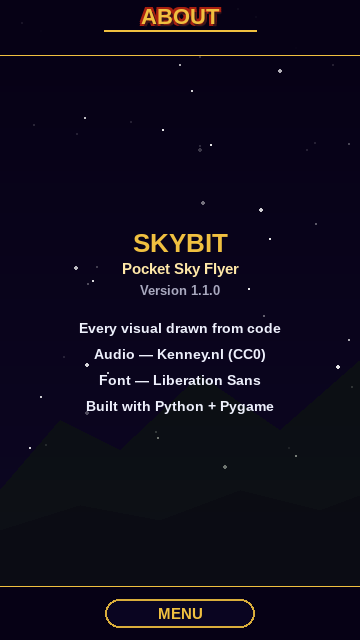
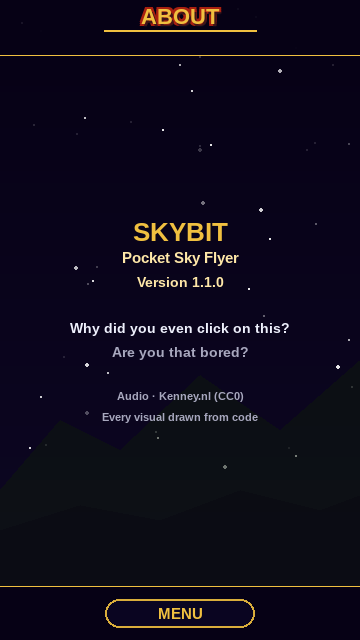
About: version + a self-aware roast line
Put the game version front and centre and add an on-brand roast for anyone
who opens the About screen ("Why did you even click on this? Are you that
bored?"), with a compact credits footer beneath.

Claude-Session: https://claude.ai/code/session_01ARwhW1U7KdSUdqvnUSuQi9

Changed region(s): [[0.1833, 0.5, 0.7944, 0.6562], [0.3361, 0.3438, 0.6722, 0.4688]]

diff --git a/game/about_screen.py b/game/about_screen.py
@@ -40,13 +40,14 @@ class AboutScene:
     # (text, font size, colour, extra gap above) — laid out top-down, then the
     # whole block is vertically centred in the body.
     LINES = (
-        ("SKYBIT",                      26, _GOLD_BRIGHT, 0),
-        ("Pocket Sky Flyer",            15, _GOLD_PALE,   2),
-        (f"Version {VERSION}",          13, _DIM,         6),
-        ("Every visual drawn from code", 14, _WHITE,      22),
-        ("Audio — Kenney.nl (CC0)",     14, _WHITE,       10),
-        ("Font — Liberation Sans",      14, _WHITE,       10),
-        ("Built with Python + Pygame",  14, _WHITE,       10),
+        ("SKYBIT",                        26, _GOLD_BRIGHT, 0),
+        ("Pocket Sky Flyer",              15, _GOLD_PALE,   2),
+        (f"Version {VERSION}",            14, _GOLD_PALE,   8),
+        # A little self-aware roast for anyone who wanders in here.
+        ("Why did you even click on this?", 14, _WHITE,     30),
+        ("Are you that bored?",           14, _DIM,         8),
+        ("Audio · Kenney.nl (CC0)",       11, _DIM,         30),
+        ("Every visual drawn from code",  11, _DIM,         8),
     )
 
     def __init__(self):
